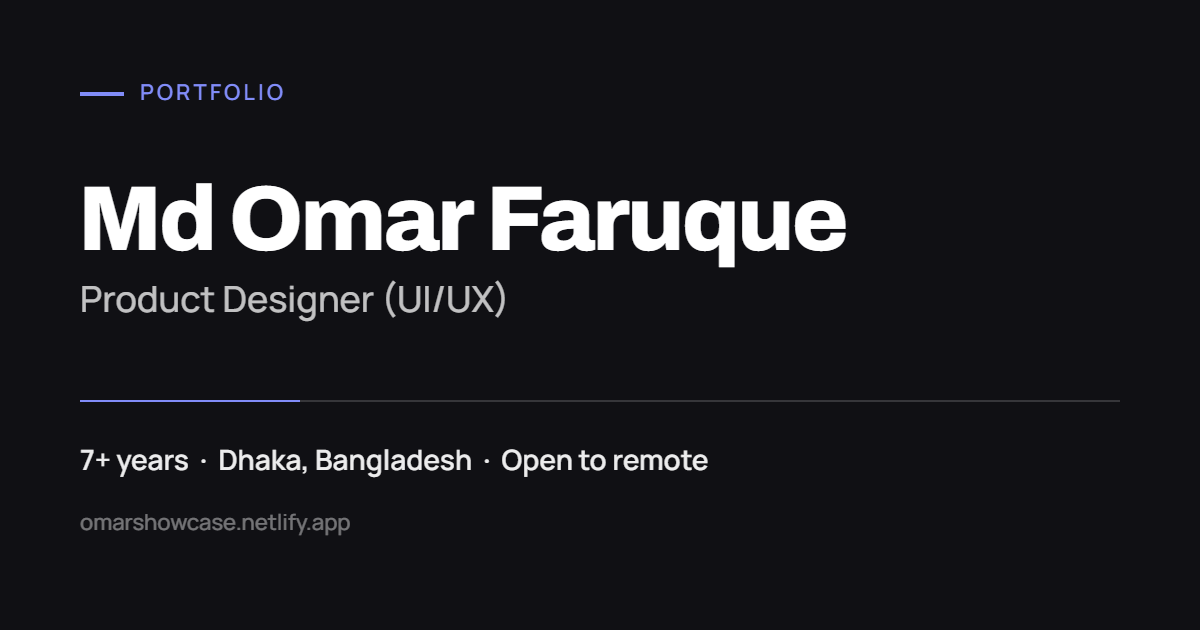
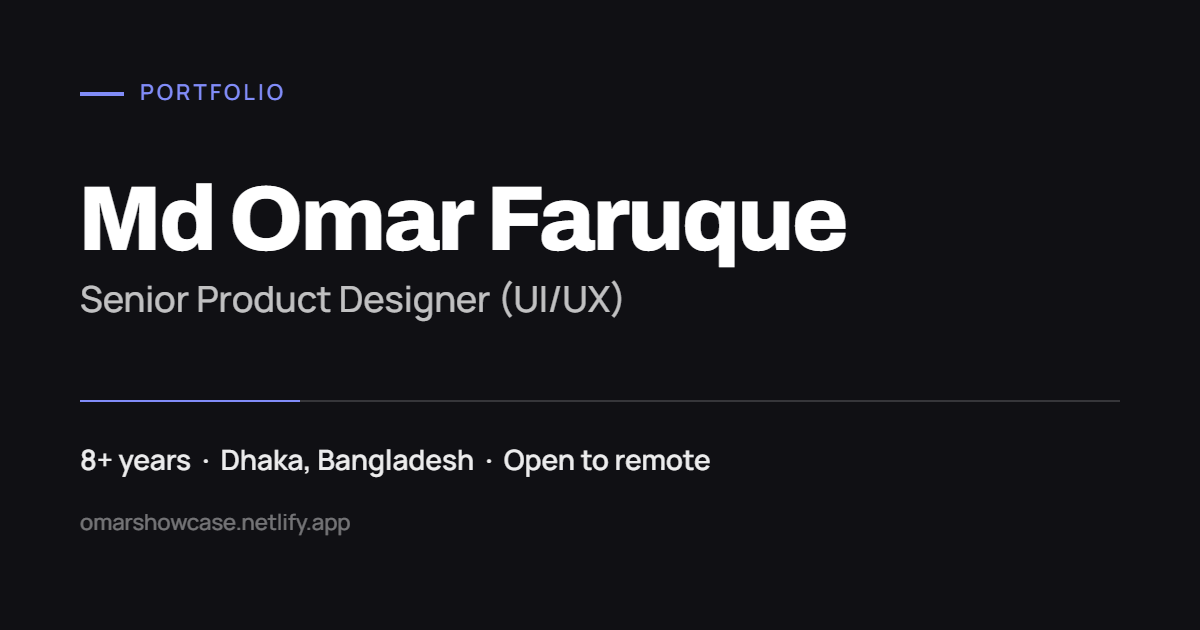
Senior Product Designer (UI/UX), 8+ years
Restores the title and experience figure the resume pass had reduced to
"Product Designer (UI/UX)" and "7+ years". Omar confirmed the seniority;
the 8+ figure matches the timeline on the site, which runs from Oct 2018.

Changed everywhere the pair appears: page title, meta description, OG
and Twitter title/description/image alt on all three pages, the Person
JSON-LD jobTitle, the hero eyebrow and lede, the hero card topline, and
the experience heading (Seven -> Eight).

Regenerated og-image.png to match, since the card carried both strings.

The "Product Designer" heading in the timeline is the United Software
Solutions job title, not a claim about now, and is deliberately left.

Changed region(s): [[0.0617, 0.4524, 0.5242, 0.5127], [0.0617, 0.6937, 0.5858, 0.754]]

diff --git a/index.html b/index.html
@@ -3,10 +3,10 @@
   <head>
     <meta charset="utf-8">
     <meta name="viewport" content="width=device-width, initial-scale=1">
-    <title>Md Omar Faruque | Product Designer (UI/UX)</title>
+    <title>Md Omar Faruque | Senior Product Designer (UI/UX)</title>
     <meta
       name="description"
-      content="Portfolio for Md Omar Faruque, a Product Designer (UI/UX) in Dhaka with 7+ years designing web and mobile products across B2B, B2C, gaming, and operations tools."
+      content="Portfolio for Md Omar Faruque, a Senior Product Designer (UI/UX) in Dhaka with 8+ years designing web and mobile products across B2B, B2C, gaming, and operations tools."
     >
     <link rel="canonical" href="https://omarshowcase.netlify.app/">
 
@@ -17,16 +17,16 @@
     <meta property="og:type" content="website">
     <meta property="og:site_name" content="Md Omar Faruque">
     <meta property="og:url" content="https://omarshowcase.netlify.app/">
-    <meta property="og:title" content="Md Omar Faruque | Product Designer (UI/UX)">
-    <meta property="og:description" content="Portfolio for Md Omar Faruque, a Product Designer (UI/UX) in Dhaka with 7+ years designing web and mobile products across B2B, B2C, gaming, and operations tools.">
+    <meta property="og:title" content="Md Omar Faruque | Senior Product Designer (UI/UX)">
+    <meta property="og:description" content="Portfolio for Md Omar Faruque, a Senior Product Designer (UI/UX) in Dhaka with 8+ years designing web and mobile products across B2B, B2C, gaming, and operations tools.">
     <meta property="og:image" content="https://omarshowcase.netlify.app/og-image.png">
     <meta property="og:image:width" content="1200">
     <meta property="og:image:height" content="630">
-    <meta property="og:image:alt" content="Md Omar Faruque, Product Designer, Dhaka Bangladesh">
+    <meta property="og:image:alt" content="Md Omar Faruque, Senior Product Designer, Dhaka Bangladesh">
 
     <meta name="twitter:card" content="summary_large_image">
-    <meta name="twitter:title" content="Md Omar Faruque | Product Designer (UI/UX)">
-    <meta name="twitter:description" content="Portfolio for Md Omar Faruque, a Product Designer (UI/UX) in Dhaka with 7+ years designing web and mobile products across B2B, B2C, gaming, and operations tools.">
+    <meta name="twitter:title" content="Md Omar Faruque | Senior Product Designer (UI/UX)">
+    <meta name="twitter:description" content="Portfolio for Md Omar Faruque, a Senior Product Designer (UI/UX) in Dhaka with 8+ years designing web and mobile products across B2B, B2C, gaming, and operations tools.">
     <meta name="twitter:image" content="https://omarshowcase.netlify.app/og-image.png">
 
     <link rel="preconnect" href="https://fonts.googleapis.com">
@@ -42,7 +42,7 @@
         "@context": "https://schema.org",
         "@type": "Person",
         "name": "Md Omar Faruque",
-        "jobTitle": "Product Designer (UI/UX)",
+        "jobTitle": "Senior Product Designer (UI/UX)",
         "url": "https://omarshowcase.netlify.app/",
         "email": "mailto:omarmahin0@gmail.com",
         "telephone": "+8801736316043",
@@ -95,10 +95,10 @@
     <main id="main">
       <section class="hero shell section-pad" aria-labelledby="hero-title">
         <div class="hero-copy reveal">
-          <p class="eyebrow">Product Designer (UI/UX) based in Dhaka, Bangladesh.</p>
+          <p class="eyebrow">Senior Product Designer (UI/UX) based in Dhaka, Bangladesh.</p>
           <h1 id="hero-title">Design Thinking applied to products people actually have to use.</h1>
           <p class="hero-lede">
-            7+ years designing web and mobile products across B2B, B2C, gaming, and
+            8+ years designing web and mobile products across B2B, B2C, gaming, and
             operations tools &mdash; research and information architecture first,
             then prototypes, design systems, and UI.
           </p>
@@ -119,7 +119,7 @@
           >
           <div class="signal-topline">
             <span id="glance-title">Md Omar Faruque</span>
-            <span>7+ years of experience</span>
+            <span>8+ years of experience</span>
           </div>
           <dl class="fact-list">
             <div>
@@ -336,7 +336,7 @@
       <section class="section shell" id="experience" aria-labelledby="experience-title">
         <div class="section-heading reveal">
           <p class="eyebrow">Experience</p>
-          <h2 id="experience-title">Seven years, four teams, one throughline.</h2>
+          <h2 id="experience-title">Eight years, four teams, one throughline.</h2>
           <p>
             Agency visual work into product design into UX leadership &mdash; each
             step closer to owning the whole problem rather than the last mile of it.

diff --git a/case-study.html b/case-study.html
@@ -22,7 +22,7 @@
     <meta property="og:image" content="https://omarshowcase.netlify.app/og-image.png">
     <meta property="og:image:width" content="1200">
     <meta property="og:image:height" content="630">
-    <meta property="og:image:alt" content="Md Omar Faruque, Product Designer, Dhaka Bangladesh">
+    <meta property="og:image:alt" content="Md Omar Faruque, Senior Product Designer, Dhaka Bangladesh">
 
     <meta name="twitter:card" content="summary_large_image">
     <meta name="twitter:title" content="Case Study | Md Omar Faruque">

diff --git a/contact.html b/contact.html
@@ -22,7 +22,7 @@
     <meta property="og:image" content="https://omarshowcase.netlify.app/og-image.png">
     <meta property="og:image:width" content="1200">
     <meta property="og:image:height" content="630">
-    <meta property="og:image:alt" content="Md Omar Faruque, Product Designer, Dhaka Bangladesh">
+    <meta property="og:image:alt" content="Md Omar Faruque, Senior Product Designer, Dhaka Bangladesh">
 
     <meta name="twitter:card" content="summary_large_image">
     <meta name="twitter:title" content="Contact | Md Omar Faruque">
